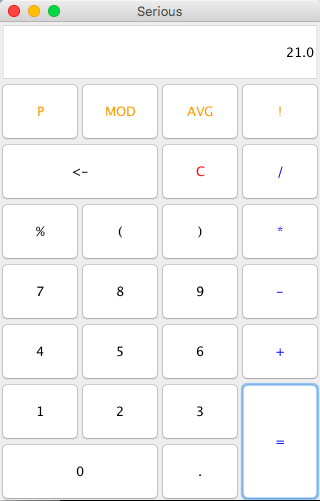
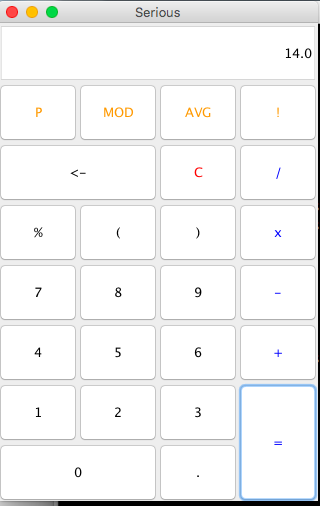
[20161128] * -> x
[20161128] * -> x

diff --git a/Serious/Serious.java b/Serious/Serious.java
@@ -50,7 +50,7 @@ public class Serious extends JFrame implements ActionListener{
         deletebtn = new JButton("<-");
         clearbtn = new JButton("C");
         dividebtn = new JButton("/");
-        multiplebtn = new JButton("*");
+        multiplebtn = new JButton("x");
         percentbtn = new JButton("%");
         leftbracketbtn = new JButton("(");
         rightbracketbtn = new JButton(")");
@@ -161,13 +161,13 @@ public class Serious extends JFrame implements ActionListener{
         String str=e.getActionCommand();
         System.out.println("=> "+str);
         // "P" "MOD" "AVG" "!" "<-" "C"
-        if(str!="+" && str!="-" && str!="*" && str!="/" && str!="(" && str!=")" && str!="="){
+        if(str!="+" && str!="-" && str!="x" && str!="/" && str!="(" && str!=")" && str!="="){
           // su+=str; //숫자 입력 업데이트
           inlabel+=str;
           System.out.println("=> ");
           textField.setText(inlabel); //라벨에 추가
         }
-        else if(str=="+" || str=="-" || str=="*" || str=="/" || str=="(" || str==")"){
+        else if(str=="+" || str=="-" || str=="x" || str=="/" || str=="(" || str==")"){
           // number.add(Integer.parseInt(su)); //기호를 누르면 지금까지 입력한 수를 어레이리스트에 넣기
           inlabel+=" "+str+" ";
           textField.setText(inlabel); //라벨에 추가
@@ -248,7 +248,7 @@ class InfixCalc{
 
 			switch(tempOpper[0])
 			{
-			case '*':
+			case 'x':
 				list.add(totalCount-countMul);
 				countMul++;
 				break;
@@ -301,7 +301,7 @@ class InfixCalc{
 			tempSaveOperand[1] = operand.get(temp+1);
 			//list에 입력되어 있는 index값을 이용해 operand와 operator를 불러와 저장한다.
 
-			if(tempSaveOperator == '*')
+			if(tempSaveOperator == 'x')
 				operand.set(temp, tempSaveOperand[0] * tempSaveOperand[1]);
 			else if(tempSaveOperator == '/')
 				operand.set(temp, tempSaveOperand[0] / tempSaveOperand[1]);
